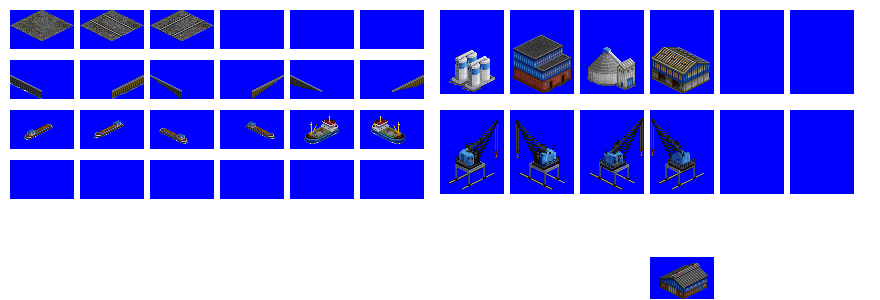
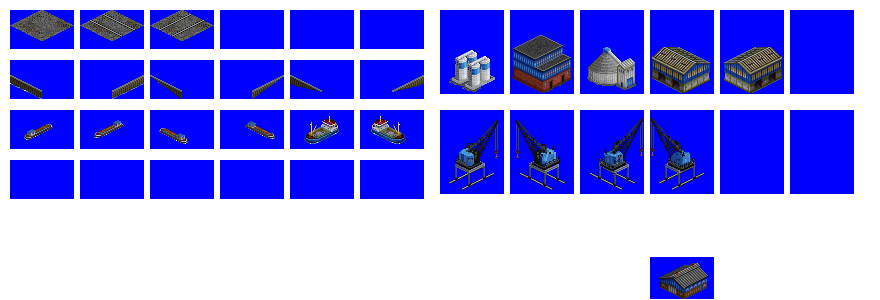
Change: more WIP on renewed wharf layout

Changed region(s): [[0.7977, 0.15, 0.8898, 0.33]]

diff --git a/src/industries/wharf.py b/src/industries/wharf.py
@@ -115,8 +115,11 @@ spriteset_silos = industry.add_spriteset(
 spriteset_cone_silo = industry.add_spriteset(
     sprites=[(580, 10, 64, 84, -31, -61)],
 )
-spriteset_warehouse = industry.add_spriteset(
+spriteset_warehouse_nw_se = industry.add_spriteset(
     sprites=[(650, 10, 64, 84, -31, -61)],
+)
+spriteset_warehouse_ne_sw = industry.add_spriteset(
+    sprites=[(720, 10, 64, 84, -31, -61)],
 )
 spriteset_large_crane_ne_sw = industry.add_spriteset(
     sprites=[(440, 110, 64, 84, -31, -43)],
@@ -298,10 +301,10 @@ industry.add_magic_spritelayout(
                 spriteset_large_crane_ne_sw,
             ],
             "sw": [
-                spriteset_large_crane_se_nw,
+                spriteset_large_crane_nw_se,
             ],
             "nw": [
-                spriteset_large_crane_ne_sw,
+                spriteset_large_crane_sw_ne,
             ],
             "ne": [
                 spriteset_large_crane_se_nw,
@@ -343,16 +346,16 @@ industry.add_magic_spritelayout(
         "jetty_top_sprites": [spriteset_concrete],
         "building_sprites": {
             "se": [
-                spriteset_warehouse,
+                spriteset_warehouse_ne_sw,
             ],
             "sw": [
-                spriteset_warehouse,
+                spriteset_warehouse_nw_se,
             ],
             "nw": [
-                spriteset_warehouse,
+                spriteset_warehouse_ne_sw,
             ],
             "ne": [
-                spriteset_warehouse,
+                spriteset_warehouse_nw_se,
             ],
         },
     },
